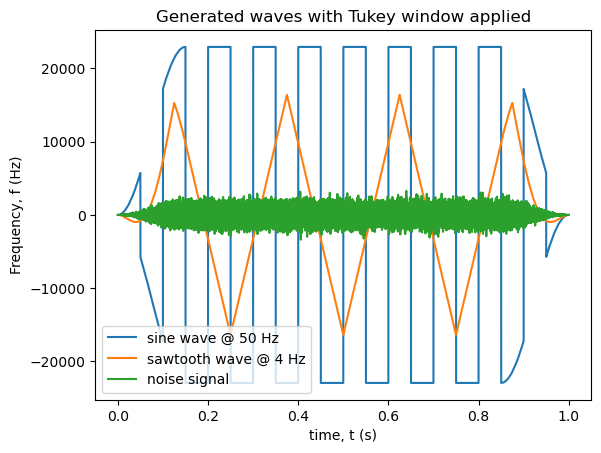
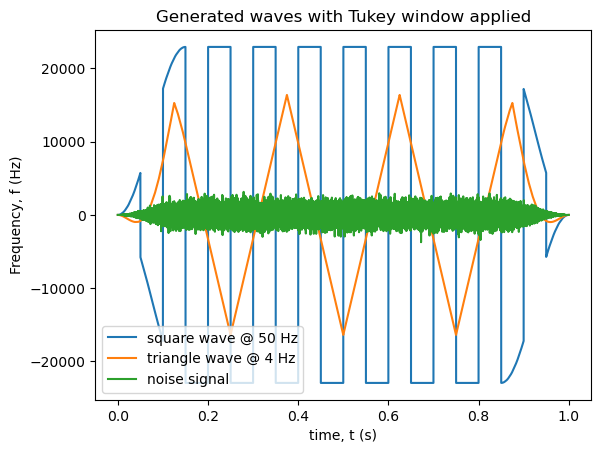
fix labels on plots

Changed region(s): [[0.2396, 0.4018, 0.8985, 0.4636], [0.2696, 0.4945, 0.8985, 0.5254], [0.2396, 0.7108, 0.5092, 0.8035]]

diff --git a/generateSignalTest.py b/generateSignalTest.py
@@ -17,14 +17,14 @@ def main():
 	print(t_f-t_i)
 	
 	# Generate a second buffer
-	sawtooth_buffer= generate.createBuffer(4, 0.5, 1, f'triangle')
+	triangle_buffer= generate.createBuffer(4, 0.5, 1, f'triangle')
 
 	# Generate a third buffer
 	noise_buffer= generate.createBuffer(None, 0.05, 1, f'noise')
 	
 	# Plot the signals 
-	plt.plot(generate.t, square_buffer.T[0][:], label= 'sine wave @ 50 Hz')
-	plt.plot(generate.t, sawtooth_buffer.T[0][:], label= 'sawtooth wave @ 4 Hz')
+	plt.plot(generate.t, square_buffer.T[0][:], label= 'square wave @ 50 Hz')
+	plt.plot(generate.t, triangle_buffer.T[0][:], label= 'triangle wave @ 4 Hz')
 	plt.plot(generate.t, noise_buffer.T[0][:], label='noise signal' )
 	plt.xlabel('time, t (s)')
 	plt.ylabel('Frequency, f (Hz)', x= 0.5)
